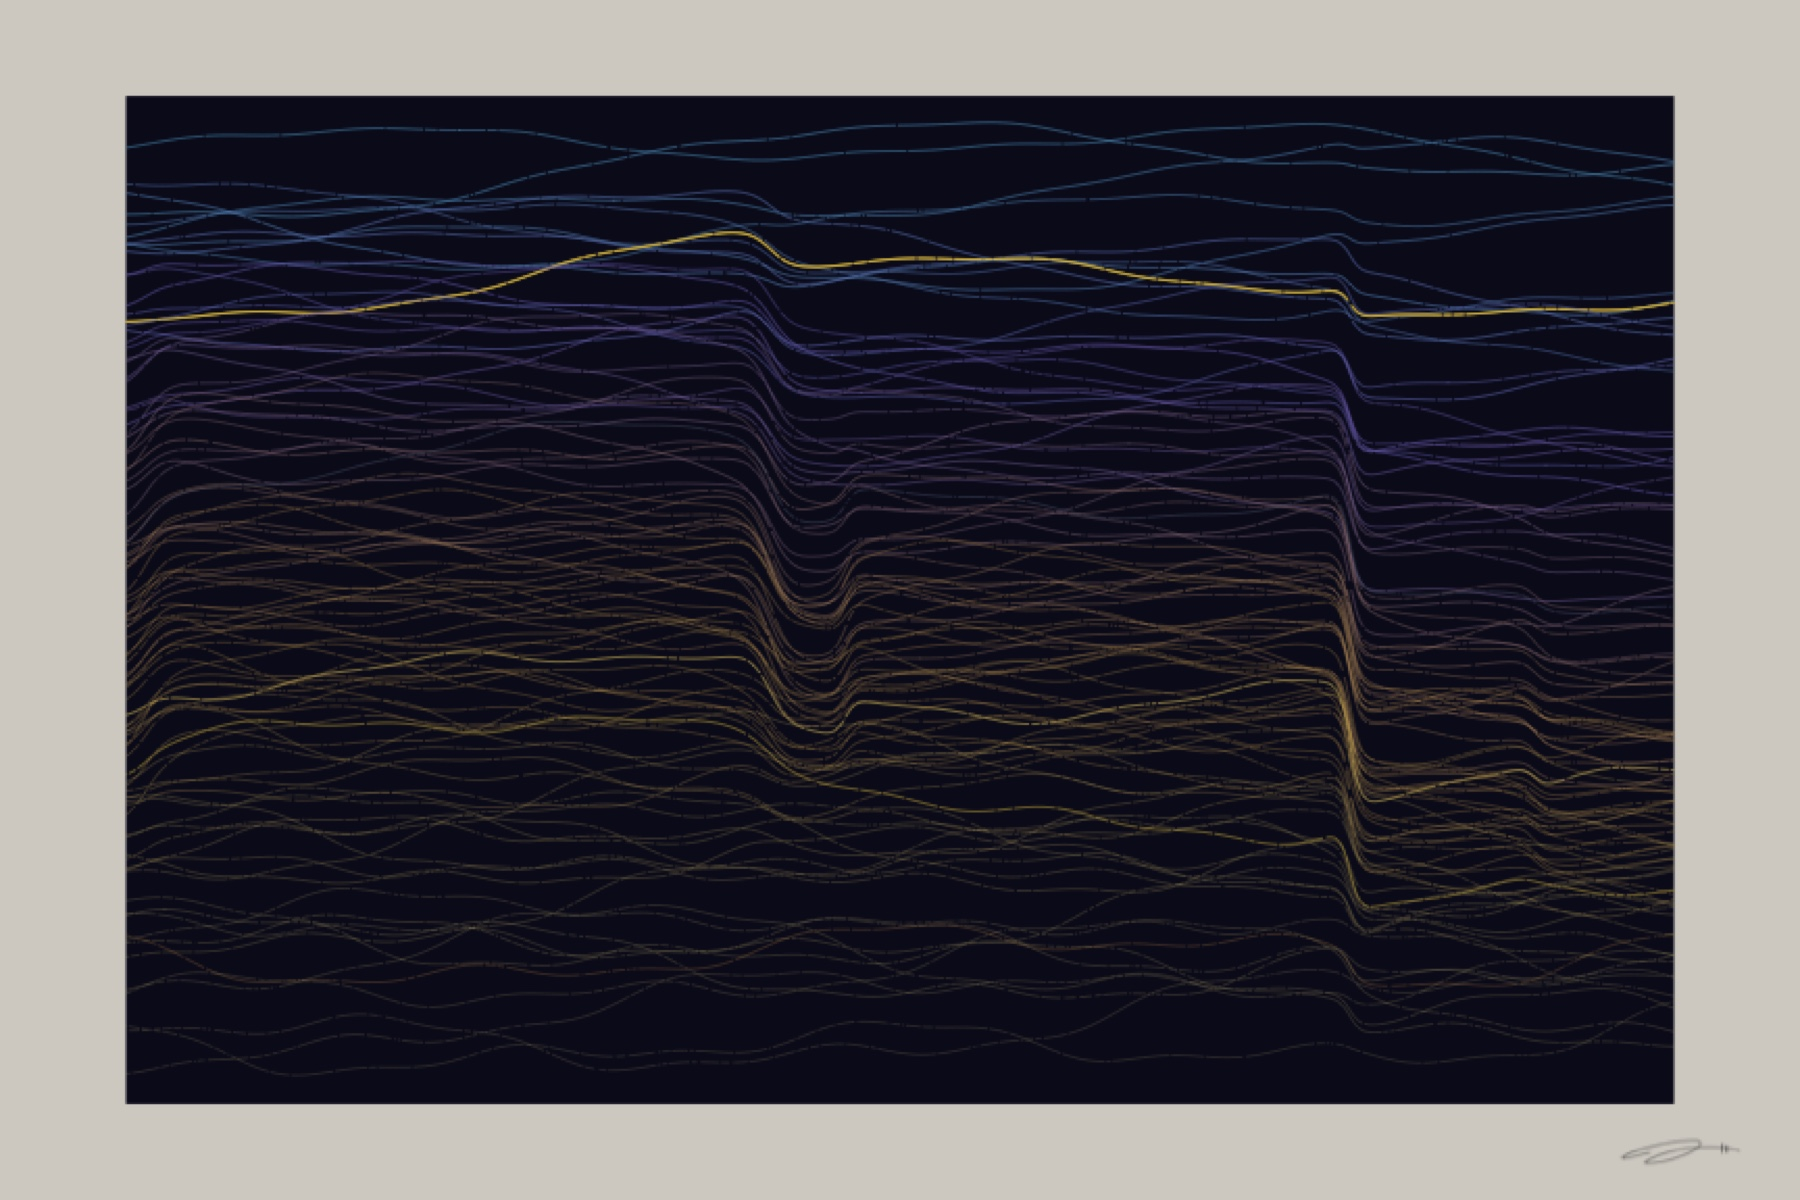
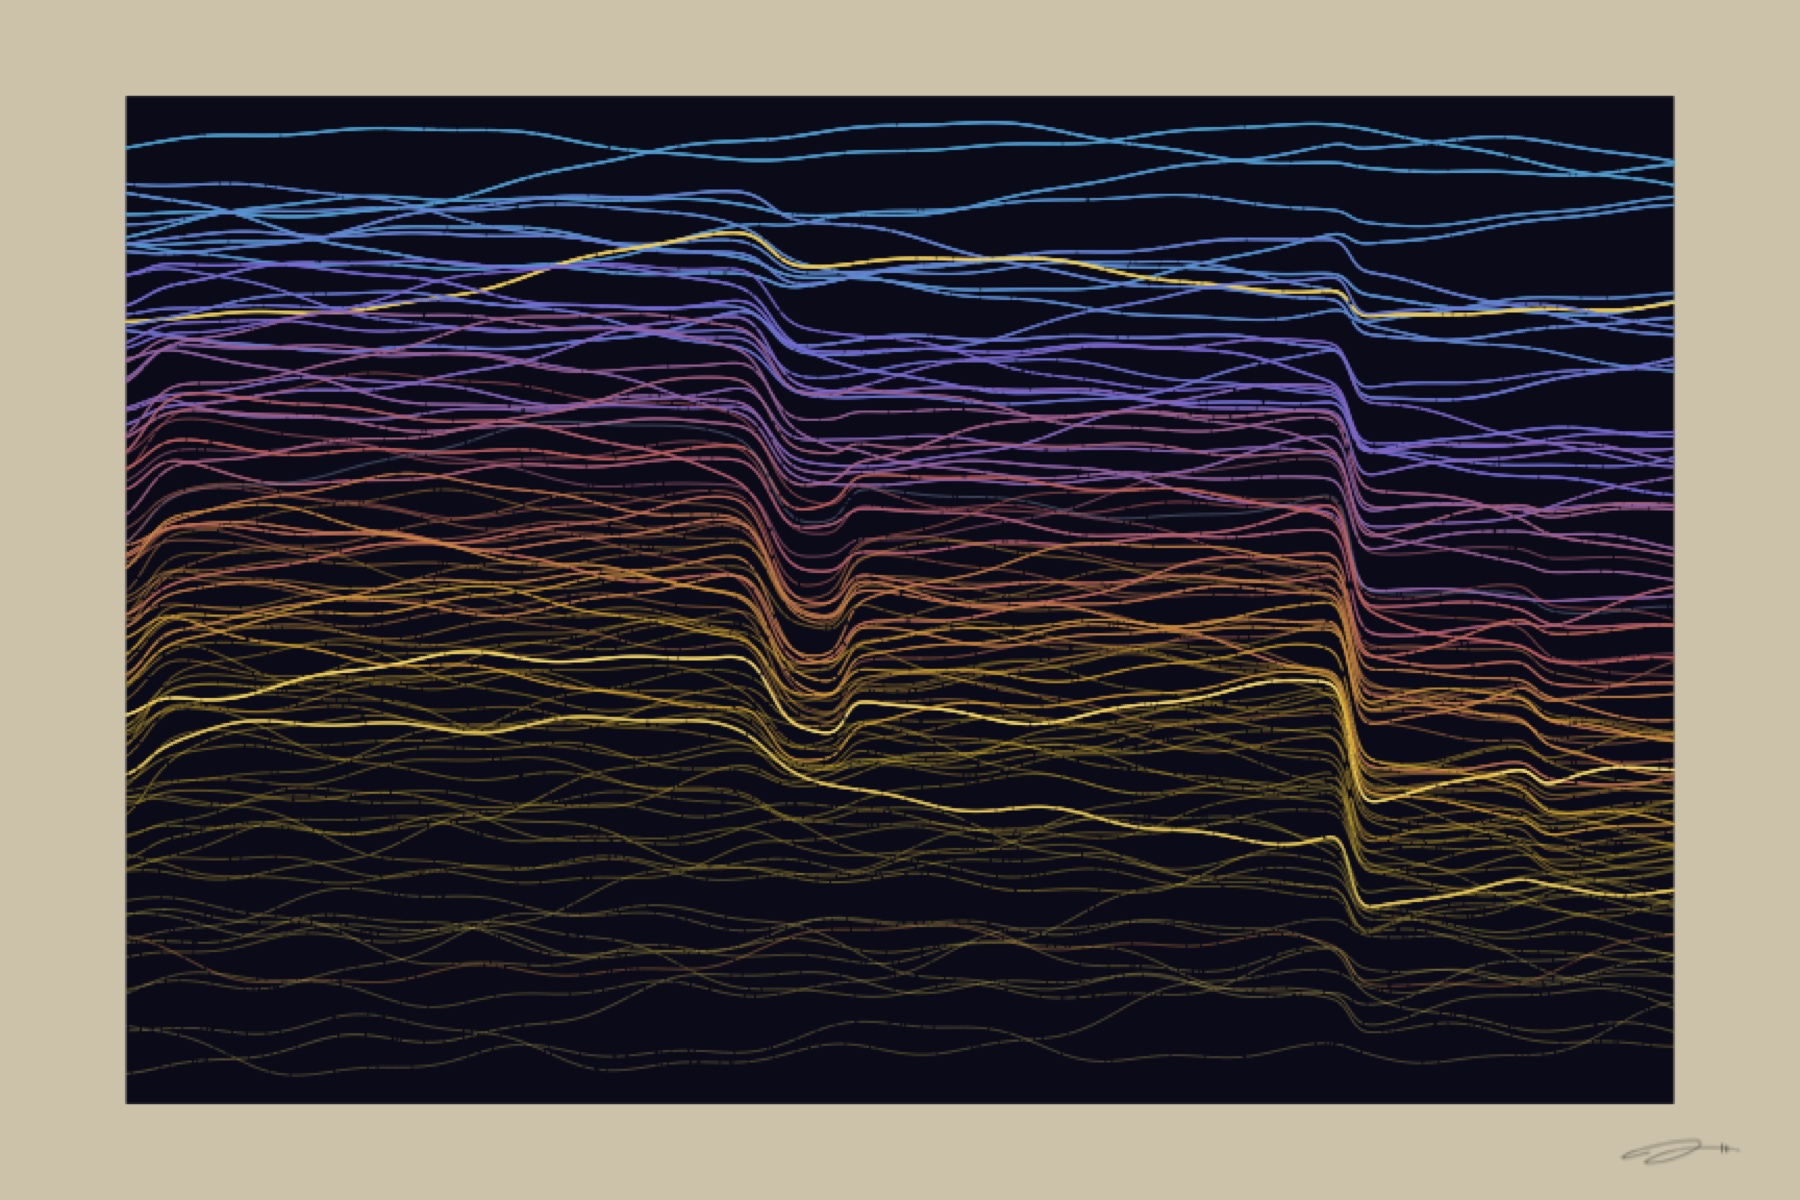
Wonder: Strata — vivid palette, soft amber margin
Boosted line saturation and alpha for thumbnail pop. Palette now
vivid cosmic (bright teal → violet → coral → gold → yellow).
Margin updated to soft amber (#CCC2AA). Brighter event layers.

diff --git a/src/data/series.ts b/src/data/series.ts
@@ -295,7 +295,7 @@ export const series: Series[] = [
       { id: "wonder-strange-attractor", title: "Strange Attractor", series: "wonder", equation: "dx=−y−z, dy=x+ay, dz=b+z(x−c)", description: "I let it run and the trajectory never repeated, never diverged, never settled. Just kept finding new paths through the same region of space, forever. Three variables pulling on each other — everything about its future already decided by the equations, and yet you could watch it for a lifetime and never see the same moment twice. The kind of wonder that makes you quiet, like staring at a fire.", emotionalNote: "Determined and yet never the same twice", background: "#DDD9D2", imageUrl: "/prints/wonder/wonder_strange_attractor.jpg", gumroadUrl: "https://gumroad.com/l/placeholder", price: 45 },
       { id: "wonder-transform", title: "Transform", series: "wonder", equation: "w = z + a/(z − z₀)", description: "The small circle is you, the viewer. Looking right, you take in the world — information flowing outward, sweeping wide. But the curves loop back, returning to reshape the observer. Perception becomes reality becomes perception again. A conformal mapping as feedback loop.", emotionalNote: "Perception shapes reality shapes perception", background: "#DDD9D2", imageUrl: "/prints/wonder/wonder_transform.jpg", gumroadUrl: "https://gumroad.com/l/placeholder", price: 45 },
       { id: "wonder-apollonian-gasket", title: "Apollonian Gasket", series: "wonder", equation: "k₄ = k₁+k₂+k₃ + 2√(k₁k₂+k₂k₃+k₁k₃)", description: "Infinity nested in the cracks between things. Three circles touching inside a fourth, and in every gap, the largest circle that fits. Repeat. The gaps never fill completely — there's always room for one more, smaller and smaller, forever. The deeper you look, the more there is. Built from Apollonian circle packing, where infinity hides in the spaces between.", emotionalNote: "Infinity nested in the cracks between things", background: "#4d476d", imageUrl: "/prints/wonder/wonder_apollonian_gasket.jpg", gumroadUrl: "https://gumroad.com/l/placeholder", price: 45 },
-      { id: "wonder-strata", title: "Strata", series: "wonder", equation: "y_i(x) = Σ_k A_k·sin(ω_k·x + φ_i) + Σ_f D_f·tanh((x − x_f)/s_f)", description: "On the John Muir Trail you walk on granite that was molten rock a hundred million years ago. Your boots are on deep time and you can't feel it at all. That gap is what I wanted to render — a hundred layers, each one an entire era, the faults where everything shifted and then went quiet again. The gold is a single event buried between epochs. Hours between forevers.", emotionalNote: "A billion years in your field of vision", background: "#CCC8C0", imageUrl: "/prints/wonder/wonder_strata.jpg", gumroadUrl: "https://gumroad.com/l/placeholder", price: 45 },
+      { id: "wonder-strata", title: "Strata", series: "wonder", equation: "y_i(x) = Σ_k A_k·sin(ω_k·x + φ_i) + Σ_f D_f·tanh((x − x_f)/s_f)", description: "On the John Muir Trail you walk on granite that was molten rock a hundred million years ago. Your boots are on deep time and you can't feel it at all. That gap is what I wanted to render — a hundred layers, each one an entire era, the faults where everything shifted and then went quiet again. The gold is a single event buried between epochs. Hours between forevers.", emotionalNote: "A billion years in your field of vision", background: "#CCC2AA", imageUrl: "/prints/wonder/wonder_strata.jpg", gumroadUrl: "https://gumroad.com/l/placeholder", price: 45 },
     ],
     bundleGumroadUrl: "https://gumroad.com/l/placeholder-wonder-bundle",
     bundlePrice: 169,

diff --git a/mathematical_affect/pieces/wonder/wonder_strata.py b/mathematical_affect/pieces/wonder/wonder_strata.py
@@ -22,21 +22,21 @@ DPI = 300
 FIG_W = 12
 FIG_H = 8
 CONTENT_BG = "#0A0A18"
-MARGIN_COLOR = "#CCC8C0"
+MARGIN_COLOR = "#CCC2AA"
 
-# Strata line palette: cosmic teal -> violet -> earth -> gold
+# Strata line palette: vivid cosmic teal -> violet -> earth -> gold
 PALETTE = [
-    "#4888B0", "#6858B0", "#8B6A6A", "#B08850",
-    "#C8A050", "#D8C070", "#E8D890"
+    "#50A0D0", "#7868D0", "#C06060", "#D09040",
+    "#E0B830", "#F0D040", "#F8E070"
 ]
 
 # Event layers — singular geological events
 EVENT_LAYERS = [
-    {"index": 10, "color": "#D8B840", "alpha": 0.6, "width": 1.1},
-    {"index": 35, "color": "#606880", "alpha": 0.45, "width": 0.7},
-    {"index": 55, "color": "#F0D060", "alpha": 0.55, "width": 1.0},
-    {"index": 75, "color": "#D8B840", "alpha": 0.5, "width": 1.0},
-    {"index": 90, "color": "#A07040", "alpha": 0.4, "width": 0.8},
+    {"index": 10, "color": "#F0D060", "alpha": 0.75, "width": 1.4},
+    {"index": 35, "color": "#8090B0", "alpha": 0.55, "width": 0.9},
+    {"index": 55, "color": "#FFE070", "alpha": 0.7, "width": 1.3},
+    {"index": 75, "color": "#F0D060", "alpha": 0.65, "width": 1.3},
+    {"index": 90, "color": "#C08040", "alpha": 0.5, "width": 1.0},
 ]
 
 NUM_LAYERS = 100
@@ -189,10 +189,10 @@ def render():
             line_width = event.get("width", 1.3)
         else:
             rgb = get_grad_color(PALETTE, t)
-            alpha = 0.18 + (1 - depth_factor) * 0.5
+            alpha = 0.35 + (1 - depth_factor) * 0.55
             wv = np.sin(i * 1.7) * 0.25 + np.sin(i * 4.3) * 0.1
-            line_width = max(0.3, min(1.3,
-                                       0.5 + (1 - depth_factor) * 0.4 + wv * 0.4))
+            line_width = max(0.5, min(1.6,
+                                       0.7 + (1 - depth_factor) * 0.5 + wv * 0.4))
 
         # Compute y positions
         sd = i * 137.5
